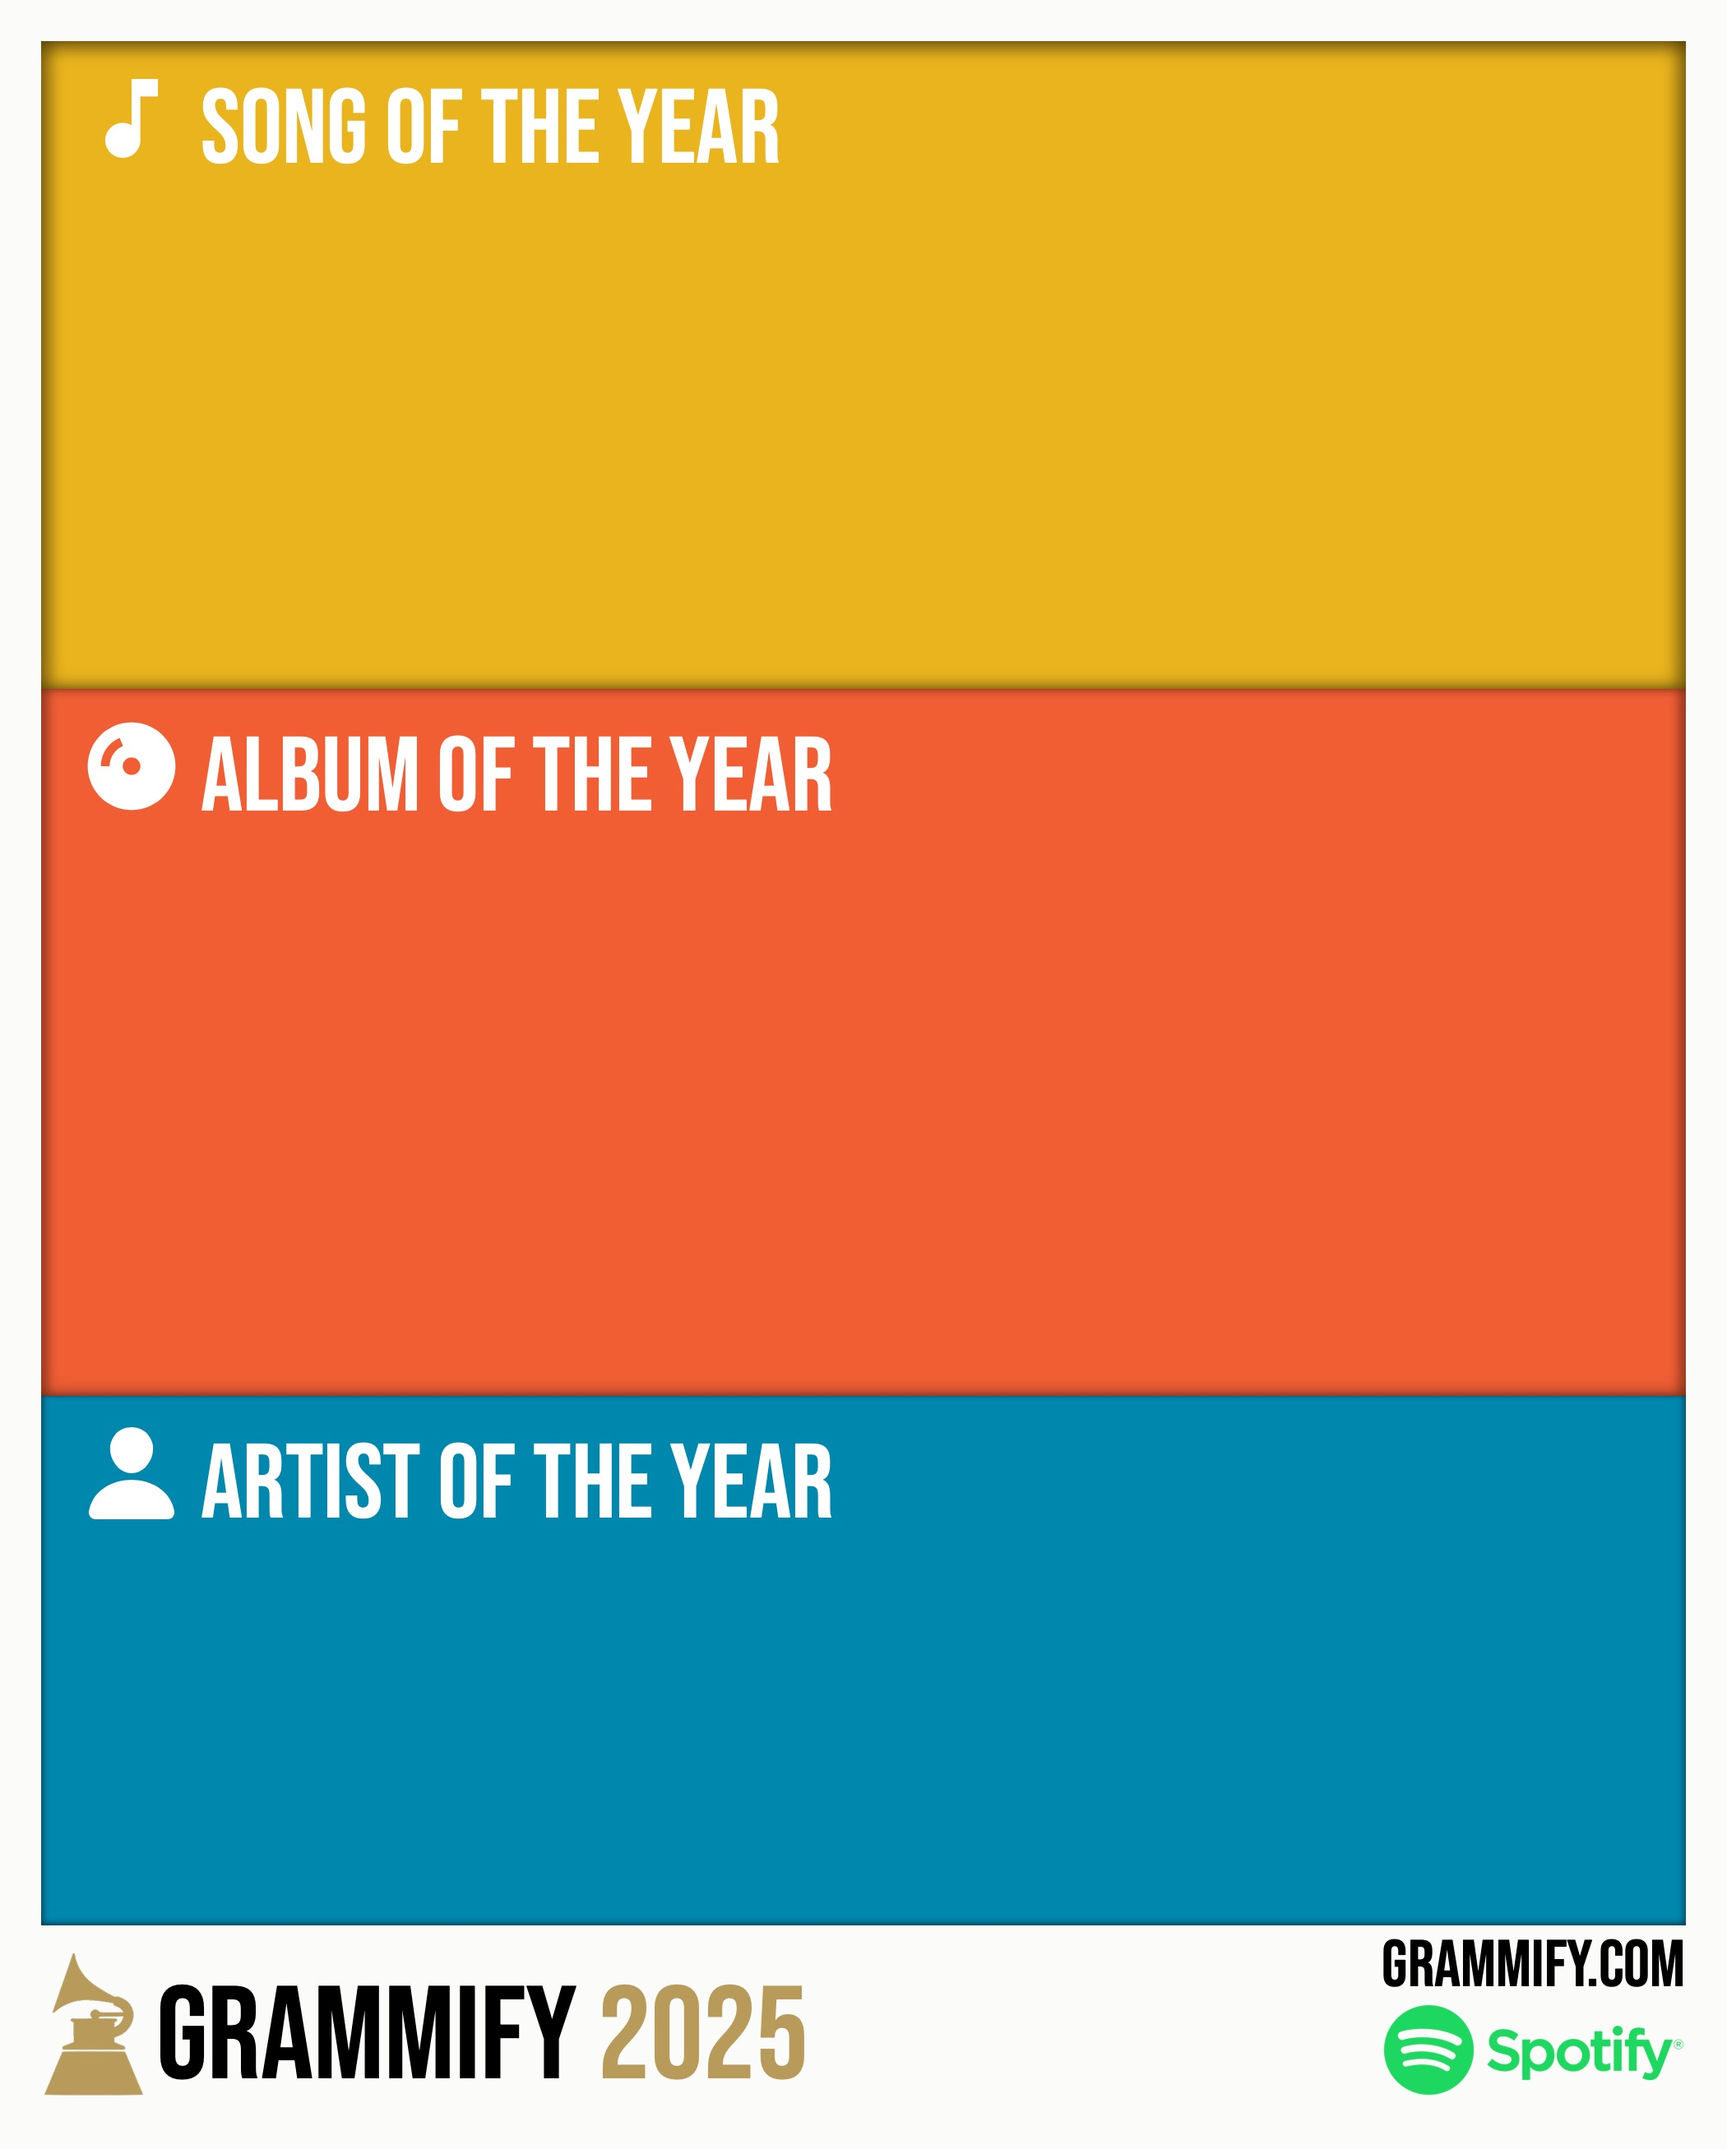
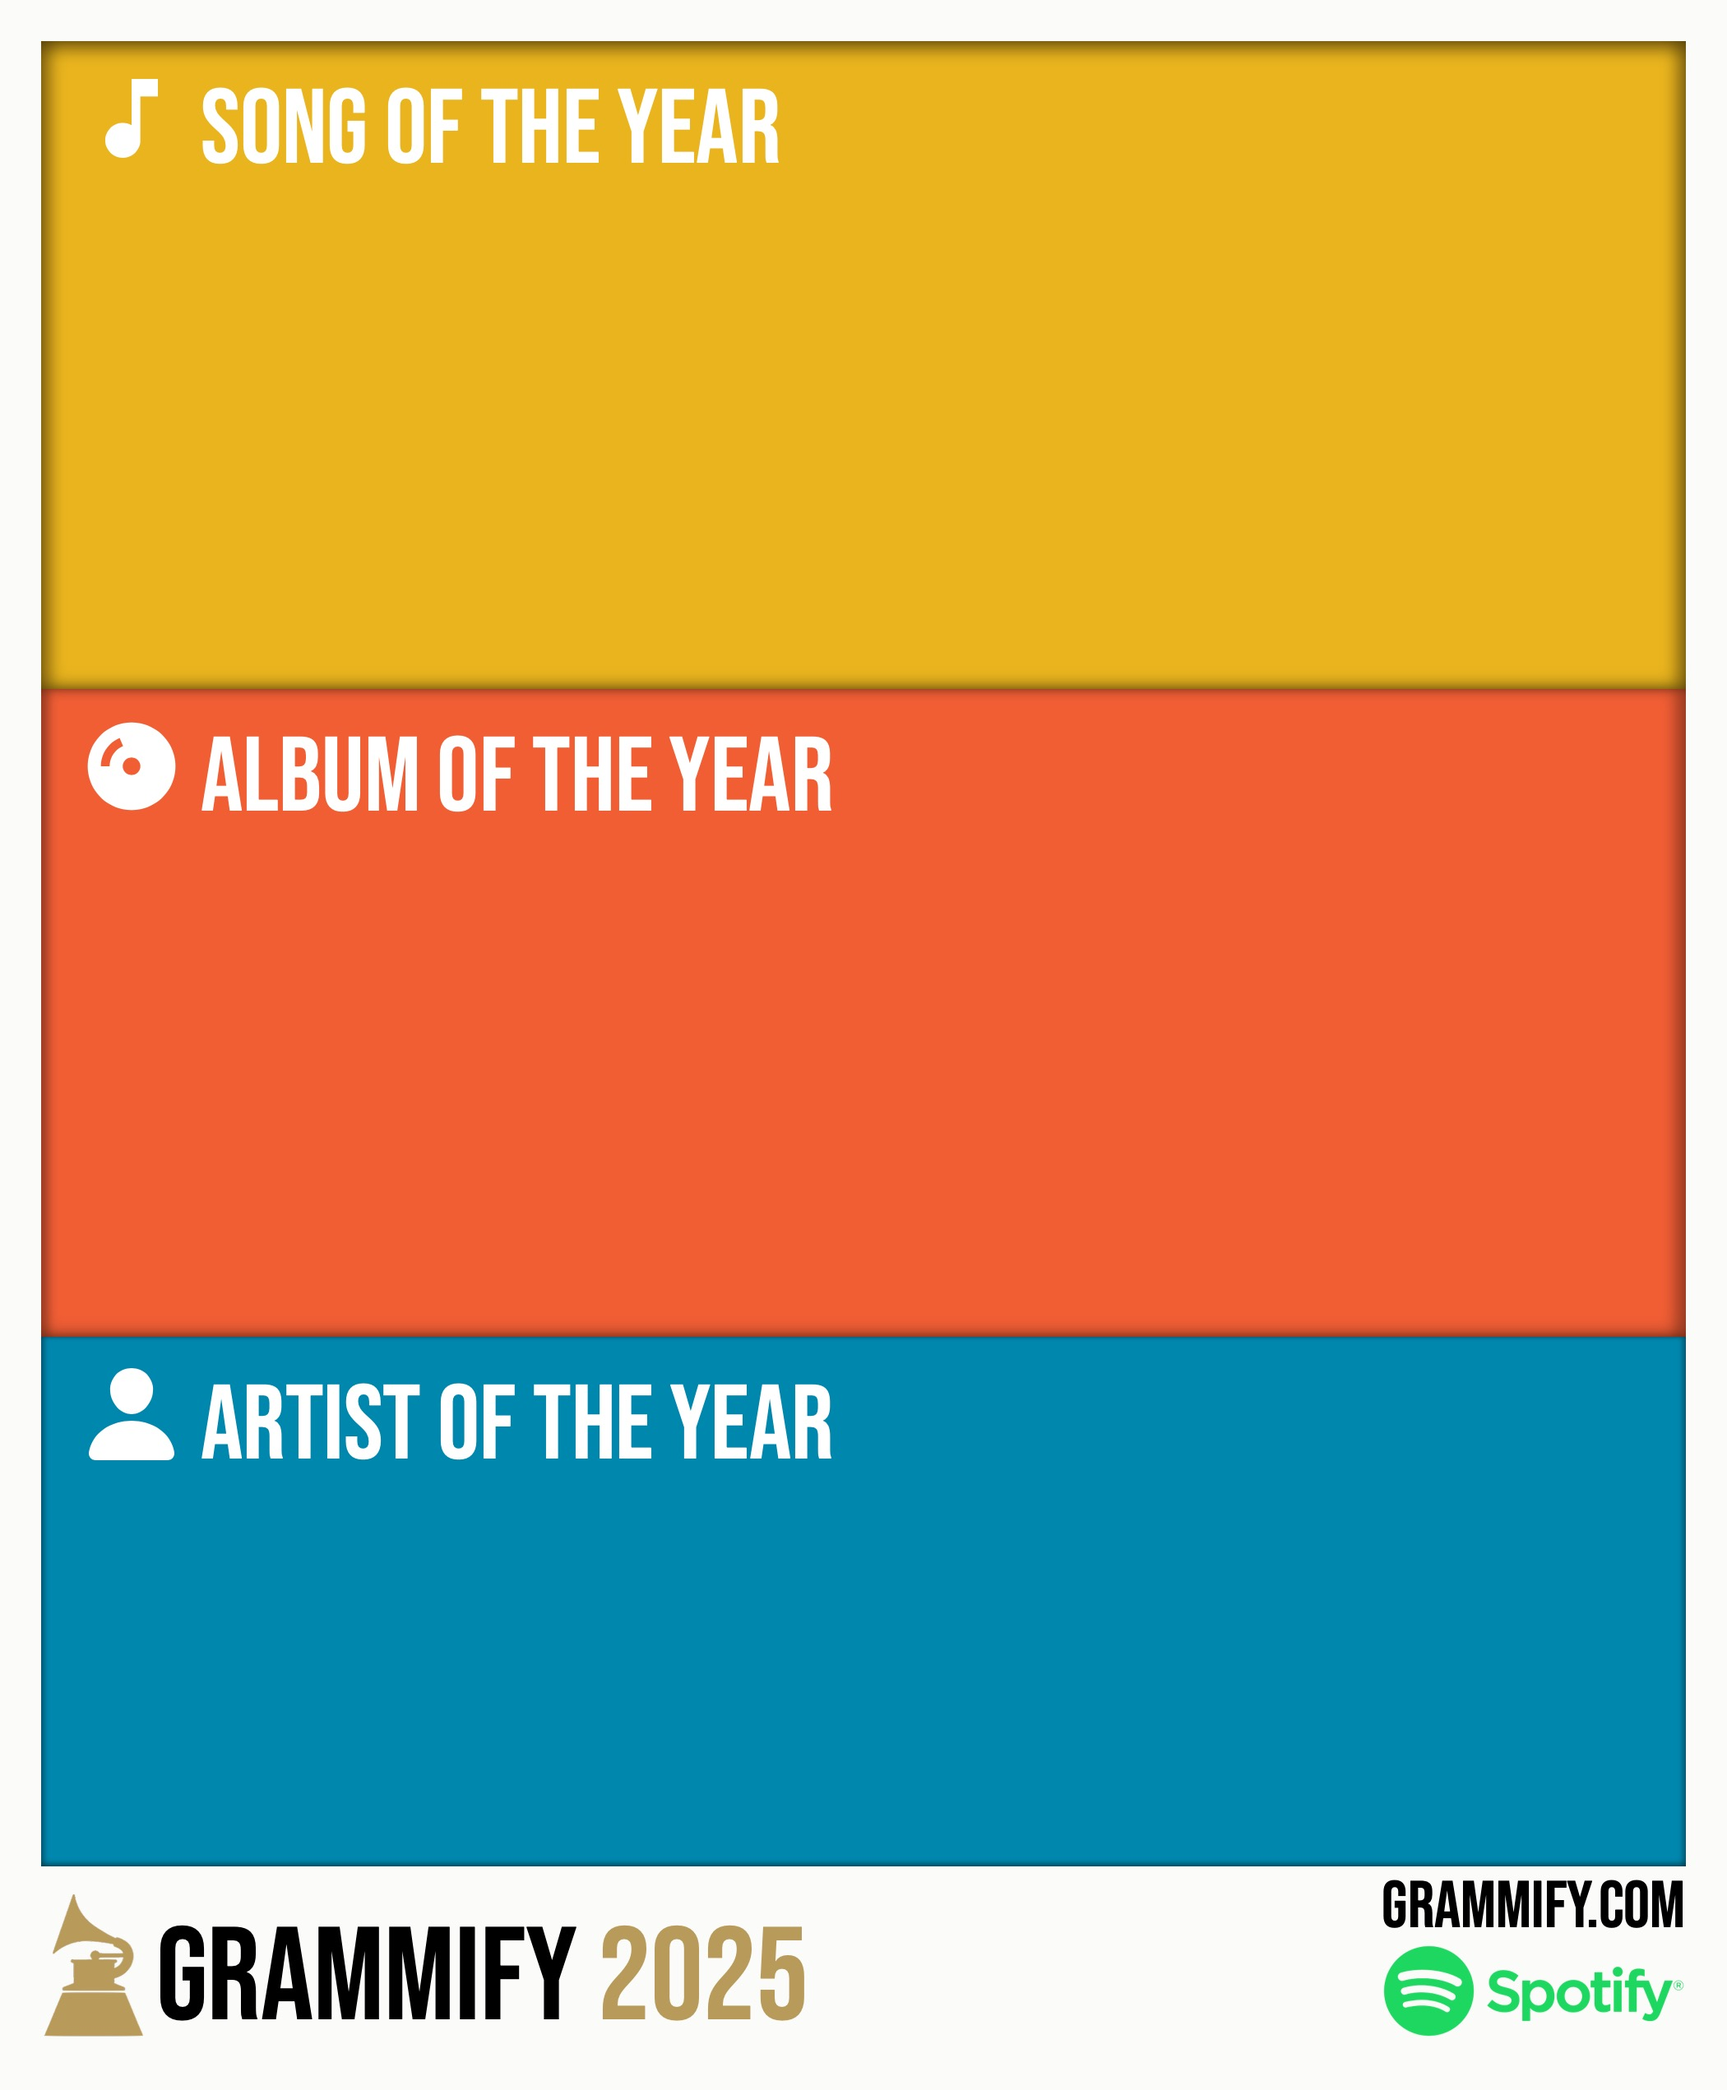
further developed animation test page (two rows w/ awards)

diff --git a/src/TestPage.js b/src/TestPage.js
@@ -1,3 +1,4 @@
+import { useState, useEffect } from "react";
 
 import example from "./images/empty.jpg";
 import album from "./images/album-placeholder.png";
@@ -5,6 +6,31 @@ import song from "./images/song-placeholder.png";
 import artist from "./images/artist-placeholder.png";
 import test1 from "./images/test1.jpg";
 import test2 from "./images/test2.jpg";
+
+import song0 from "./images/animation/songs/0.jpg";
+import song1 from "./images/animation/songs/1.jpg";
+import song2 from "./images/animation/songs/2.jpg";
+import song3 from "./images/animation/songs/3.jpg";
+import song4 from "./images/animation/songs/4.jpg";
+import song5 from "./images/animation/songs/5.jpg";
+import song6 from "./images/animation/songs/6.jpg";
+import song7 from "./images/animation/songs/7.jpg";
+import song8 from "./images/animation/songs/8.jpg";
+import song9 from "./images/animation/songs/9.jpg";
+
+import album0 from "./images/animation/albums/0.jpg";
+import album1 from "./images/animation/albums/1.jpg";
+import album2 from "./images/animation/albums/2.jpg";
+import album3 from "./images/animation/albums/3.jpg";
+import album4 from "./images/animation/albums/4.jpg";
+import album5 from "./images/animation/albums/5.jpg";
+import album6 from "./images/animation/albums/6.jpg";
+import album7 from "./images/animation/albums/7.jpg";
+import album8 from "./images/animation/albums/8.jpg";
+import album9 from "./images/animation/albums/9.jpg";
+
+import award from "./images/animation/award.png";
+
 
 export default function TestPage() {
   
@@ -49,22 +75,56 @@ export default function TestPage() {
   //   // use image instead
   // }
   
+  const songs = [song0, song1, song2, song3, song4, song5, song6, song7, song8, song9];
+  const albums = [album0, album1, album2, album3, album4, album5, album6, album7, album8, album9];
+  const [awardSong, setAwardSong] = useState(3);
+  const [awardAlbum, setAwardAlbum] = useState(1);
+  
+  // const generateCarosel = (category) => {
+    
+    const opaque = { opacity: "1" };
+  
+  useEffect(() => {
+  const interval = setInterval(() => {
+    let rand = Math.floor(Math.random() * 5)
+    setAwardSong(rand == awardSong ? awardSong + 2 : rand);
+  }, 3000);
+
+  return () => clearInterval(interval);
+}, [awardSong]);
+
+useEffect(() => {
+const interval = setInterval(() => {
+  let rand = Math.floor(Math.random() * 5)
+  setAwardAlbum(rand == awardAlbum ? awardAlbum - 1 : rand);
+}, 3000);
+
+return () => clearInterval(interval);
+}, [awardAlbum]);
+
+const songNoms = songs.map((image, index) => (
+  <div className="carosel-nominee">
+    <img src={image} className="plain" />
+    <img src={award} className="awarded" style={awardSong == (index % 5) ? opaque : {}} />
+  </div>
+));
+const albumNoms = albums.map((image, index) => (
+  <div className="carosel-nominee">
+    <img src={image} className="plain" />
+    <img src={award} className="awarded" style={awardAlbum == (index % 5) ? opaque : {}} />
+  </div>
+));
+  
   return (
   <div className="shell">
     <div className="graphic">
-      <div className="wrapper">
-        <div className="carosel">
-          <img src={test1} />
-          <img src={test2} />
-          <img src={test1} />
-          <img src={test2} />
-        </div>
-        <div className="carosel carosel-2">
-          <img src={test1} />
-          <img src={test2} />
-          <img src={test1} />
-          <img src={test2} />
-        </div>
+      <div className="wrapper songs">
+        <div className="carosel">{songNoms}{songNoms}</div>
+        <div className="carosel carosel-2">{songNoms}{songNoms}</div>
+      </div>
+      <div className="wrapper albums">
+        <div className="carosel">{albumNoms}{albumNoms}</div>
+        <div className="carosel carosel-2">{albumNoms}{albumNoms}</div>
       </div>
     </div>
   </div>

diff --git a/src/test-styles.css b/src/test-styles.css
@@ -1,8 +1,23 @@
 .shell {
-  padding: 10px;
-  /* background-color: black; */
-  
+  /* padding: 10px;
+  background-color: pink;
+  border: 1px green solid; */
 }
+
+.graphic {
+  width: 1050px;
+  height: 1271px;
+  border: 3px black solid;
+  /* box-sizing: border-box; */
+  background-image: url("./images/empty.jpg");
+  background-size: contain;
+  /* background-repeat: no-repeat; */
+  /* transform: scale(0.7); */
+  /* display: none; */
+  position: absolute;
+  /* top: 0; */
+}
+
 
 .wrapper {
   /* border: 1px red solid; */
@@ -21,20 +36,39 @@
 
 .carosel {
   display: flex;
-  animation: slide 60s linear infinite;
   width: 200%;
 }
 
+.songs .carosel {
+  animation: slideLeft 100s linear infinite;
+}
+
+.albums .carosel {
+  animation: slideRight 100s linear infinite;
+}
+
+.songs .carosel-2 {
+  animation: slideLeft 100s linear infinite, reveal 0s forwards;
+  animation-delay: 50s;
+}
+
+.albums .carosel-2 {
+  animation: slideRight 100s linear infinite, reveal 0s forwards;
+  animation-delay: 50s;
+}
+
+.albums {
+  margin-top: 98px;
+}
+
 .carosel img {
-  width: 951px;
+  /* width: 951px;
   height: 296px;
   margin-right: 14.5px;
-  margin-left: 14.5px;
+  margin-left: 14.5px; */
 }
 
 .carosel-2 {
-  animation: slide 60s linear infinite, reveal 0s forwards;
-  animation-delay: 30s;
   visibility: hidden;
   position: absolute;
   top: 0px;
@@ -46,7 +80,7 @@
   }
 } 
 
-@keyframes slide {
+@keyframes slideLeft {
   /* 0% {
     transform: translateX(0%);
   }
@@ -55,6 +89,15 @@
   } */
   to {
     transform: translateX(-200%);
+  }
+}
+
+@keyframes slideRight {
+  0% {
+    transform: translateX(-100%);
+  }
+  100% {
+    transform: translateX(100%);
   }
 }
 
@@ -78,13 +121,23 @@
  */
  
  
- .graphic {
-   width: 1050px;
-   height: 1307px;
-   border: 3px black solid;
-   /* box-sizing: border-box; */
-   background-image: url("./images/empty.jpg");
-   background-size: contain;
-   /* background-repeat: no-repeat; */
+
+ .carosel-nominee {
+   position: relative;
  }
  
+ .carosel-nominee img {
+   object-fit: fill;
+   width: 196px;
+   display: inline-block;
+ }
+ 
+ .plain {
+ }
+ 
+ .awarded {
+   position: absolute;
+   left: 0;
+   opacity: 0;
+   transition-duration: 1s;
+ }
